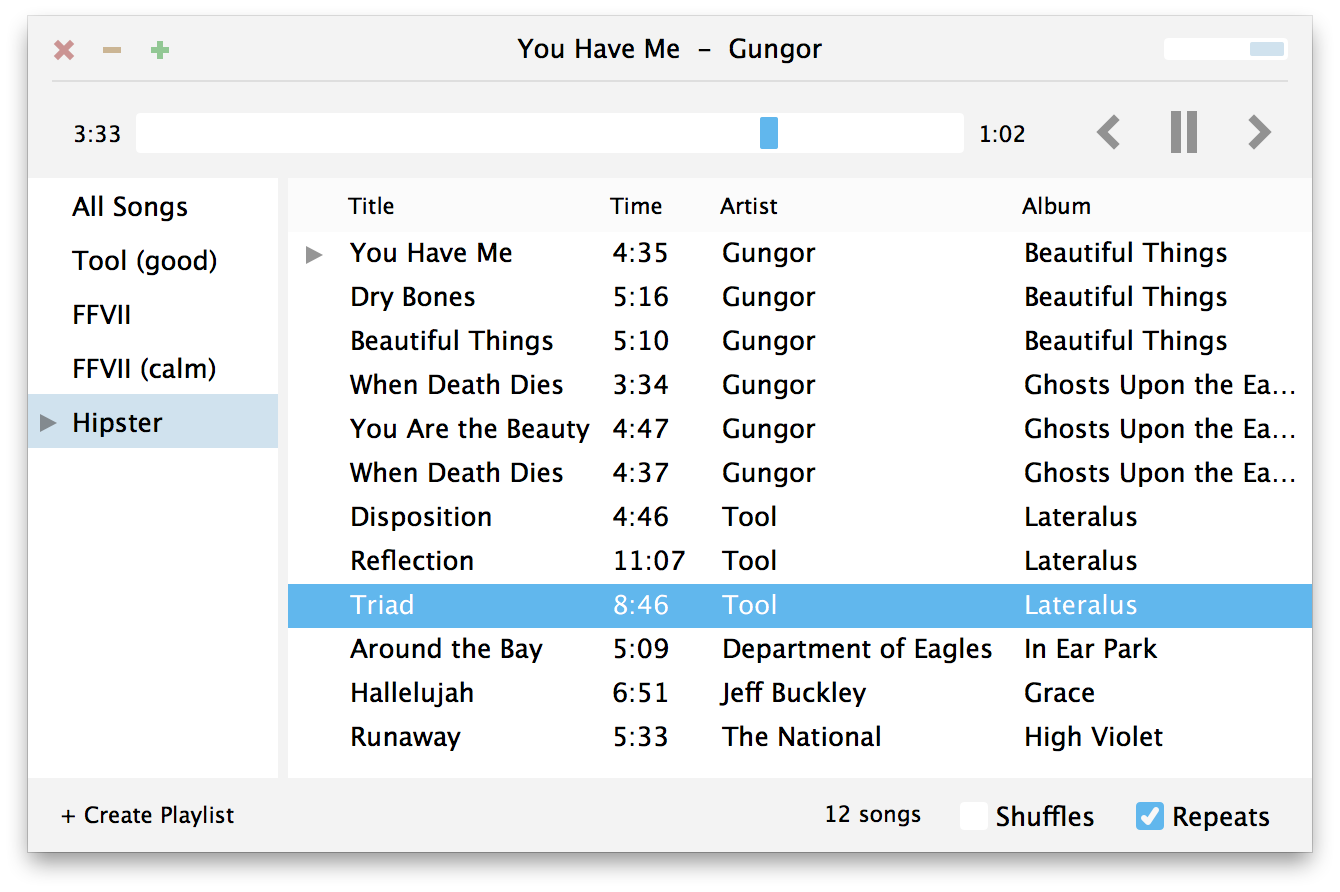
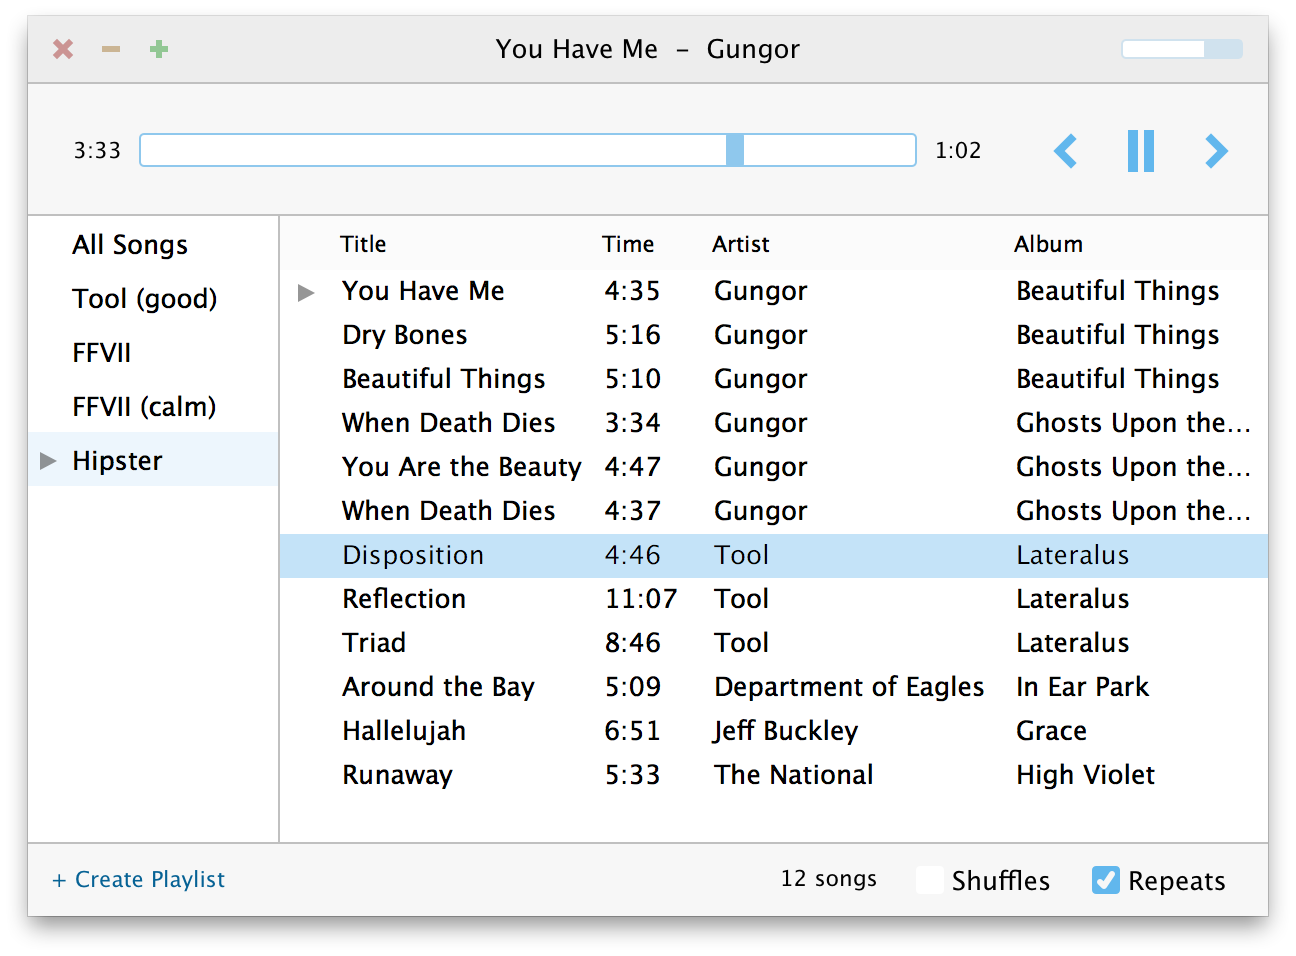
More UI changes and new screenshot.

diff --git a/Bahamut/SDPlayerWindowController.m b/Bahamut/SDPlayerWindowController.m
@@ -22,12 +22,20 @@
 
 
 
-#define SDWindowTitleBackgroundColor [NSColor colorWithCalibratedWhite:0.95 alpha:1.0]
-#define SDUnfocusedWindowTitleBackgroundColor [NSColor colorWithCalibratedWhite:0.98 alpha:1.0]
+#define SDWindowTitleBackgroundColor [NSColor colorWithCalibratedWhite:0.91 alpha:1.0]
+#define SDUnfocusedWindowTitleBackgroundColor [NSColor colorWithCalibratedWhite:0.96 alpha:1.0]
 
-#define SDWindowBackgroundColor [NSColor colorWithCalibratedWhite:0.98 alpha:1.0]
+#define SDWindowBackgroundColor [NSColor colorWithCalibratedWhite:0.96 alpha:1.0]
 
-#define SDWindowInsideBordersColor [NSColor colorWithCalibratedWhite:0.77 alpha:1.0]
+#define SDWindowInsideBordersColor [NSColor colorWithCalibratedWhite:0.70 alpha:1.0]
+
+
+
+
+@interface SDClipView : NSView
+@end
+@implementation SDClipView
+@end
 
 
 

diff --git a/Bahamut/SDColors.h b/Bahamut/SDColors.h
@@ -27,7 +27,7 @@
 
 
 
-#define SDTableRowSelectionColor [NSColor colorWithCalibratedHue:206.0/360.0 saturation:0.16 brightness:0.99 alpha:1.0]
+#define SDTableRowSelectionColor [NSColor colorWithCalibratedHue:206.0/360.0 saturation:0.26 brightness:0.97 alpha:1.0]
 #define SDTableRowSelectionUnfocusedColor [NSColor colorWithCalibratedHue:206.0/360.0 saturation:0.08 brightness:0.99 alpha:1.0]
 
 

diff --git a/Bahamut/SDSplitView.m b/Bahamut/SDSplitView.m
@@ -17,7 +17,7 @@
 }
 
 - (void) drawDividerInRect:(NSRect)rect {
-    [[NSColor colorWithCalibratedWhite:0.845 alpha:1.0] setFill];
+    [[NSColor colorWithCalibratedWhite:0.70 alpha:1.0] setFill];
     [[NSBezierPath bezierPathWithRect:rect] fill];
 }
 
